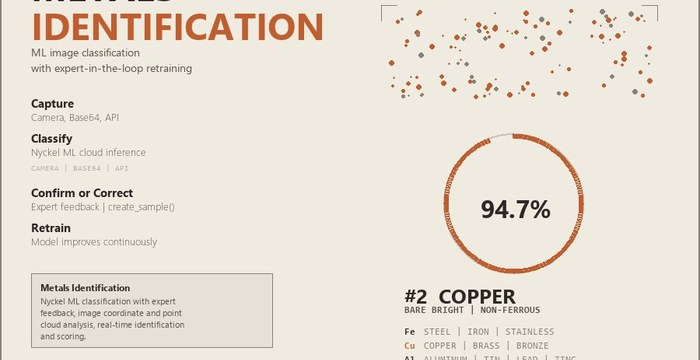
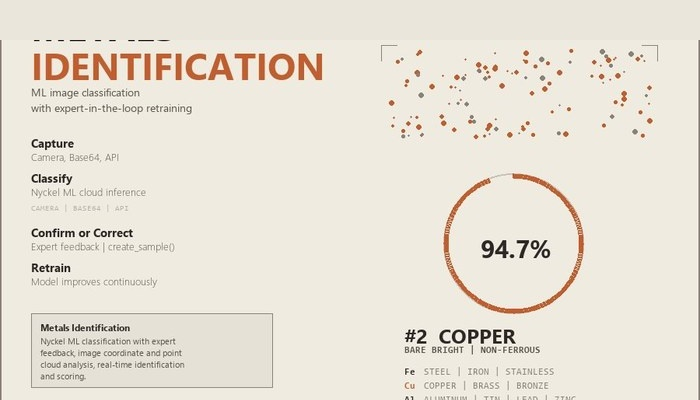
pad source images 40px top, gentle scale hover, remove lightbox, card click scrolls to project

diff --git a/index.html b/index.html
@@ -30,11 +30,9 @@
     /* Gallery section */
     .gallery-section{padding:3.5rem 0 5rem;border-top:2px solid var(--rule);overflow:visible;position:relative;z-index:1}.gallery-section .section-label{max-width:760px;margin:0 auto 1.5rem;padding:0 2.5rem}.gallery-strip-label{max-width:760px;margin:0 auto .8rem;padding:0 2.5rem;font-family:var(--mono);font-size:.65rem;font-weight:400;color:var(--fg-faint);letter-spacing:.12em;text-transform:uppercase}.gallery-strip-label:not(:first-of-type){margin-top:2.5rem}
     /* Technical gallery: card grid with captions */
-    .tech-gallery{max-width:760px;margin:0 auto;padding:0 2.5rem;display:grid;grid-template-columns:1fr 1fr;gap:1.25rem}.tech-card{background:var(--bg-warm);border:1px solid var(--rule);overflow:hidden;border-radius:0 0 6px 6px;position:relative;cursor:pointer;transition:border-color .3s ease;padding:1rem .75rem 0}.tech-card:hover{border-color:var(--accent)}.tech-card img{width:100%;height:auto;display:block;opacity:.85;transition:opacity .3s ease}.tech-card:hover img{opacity:1}.tech-card-caption{padding:.75rem 1rem;font-family:var(--mono);font-size:.68rem;color:var(--fg-light);letter-spacing:.02em;border-top:1px solid var(--rule-light)}.tech-card-caption strong{color:var(--fg-mid);font-weight:400;display:block;margin-bottom:.2rem;font-size:.72rem}
-    /* Hover overlay for gallery images */
-    .hover-overlay{display:none;position:fixed;z-index:9999;pointer-events:none;background:var(--bg-warm);border:2px solid var(--accent);border-radius:8px;box-shadow:0 20px 60px rgba(44,40,37,0.3);padding:6px;max-width:70vw;max-height:80vh}.hover-overlay img{display:block;max-width:100%;max-height:calc(80vh - 12px);border-radius:4px}
+    .tech-gallery{max-width:760px;margin:0 auto;padding:0 2.5rem;display:grid;grid-template-columns:1fr 1fr;gap:1.25rem}.tech-card{background:var(--bg-warm);border:1px solid var(--rule);overflow:hidden;border-radius:6px;position:relative;cursor:pointer;transition:border-color .3s ease,transform .35s ease,box-shadow .35s ease}.tech-card:hover{border-color:var(--accent);transform:scale(1.04);box-shadow:0 8px 24px rgba(44,40,37,0.12)}.tech-card img{width:100%;height:auto;display:block;opacity:.85;transition:opacity .3s ease}.tech-card:hover img{opacity:1}.tech-card-caption{padding:.75rem 1rem;font-family:var(--mono);font-size:.68rem;color:var(--fg-light);letter-spacing:.02em;border-top:1px solid var(--rule-light)}.tech-card-caption strong{color:var(--fg-mid);font-weight:400;display:block;margin-bottom:.2rem;font-size:.72rem}.tech-card a{display:block;color:inherit;border-bottom:none}.tech-card a:hover{border-bottom:none}
     /* Creative gallery: scrolling strip */
-    .gallery-track-wrapper{position:relative;width:100vw;left:50%;transform:translateX(-50%);overflow:hidden;mask-image:linear-gradient(to right,transparent,black 80px,black calc(100% - 80px),transparent);-webkit-mask-image:linear-gradient(to right,transparent,black 80px,black calc(100% - 80px),transparent)}.gallery-track{display:flex;gap:1.25rem;width:max-content;animation:galleryScroll 55s linear infinite}.gallery-track:hover{animation-play-state:paused}.gallery-track img{height:180px;width:auto;border:1px solid var(--rule);display:block;opacity:.85;transition:opacity .3s ease;border-radius:6px;cursor:pointer}.gallery-track img:hover{opacity:1;border-color:var(--accent)}
+    .gallery-track-wrapper{position:relative;width:100vw;left:50%;transform:translateX(-50%);overflow:hidden;mask-image:linear-gradient(to right,transparent,black 80px,black calc(100% - 80px),transparent);-webkit-mask-image:linear-gradient(to right,transparent,black 80px,black calc(100% - 80px),transparent)}.gallery-track{display:flex;gap:1.25rem;width:max-content;animation:galleryScroll 55s linear infinite}.gallery-track:hover{animation-play-state:paused}.gallery-track img{height:180px;width:auto;border:1px solid var(--rule);display:block;opacity:.85;transition:opacity .3s ease,transform .35s ease,box-shadow .35s ease;border-radius:6px;cursor:pointer}.gallery-track img:hover{opacity:1;border-color:var(--accent);transform:scale(1.08);box-shadow:0 8px 24px rgba(44,40,37,0.12)}
     @keyframes galleryScroll{0%{transform:translateX(0)}100%{transform:translateX(-50%)}}
     @keyframes fadeUp{from{opacity:0;transform:translateY(16px)}to{opacity:1;transform:translateY(0)}}
     @keyframes pulse{0%,100%{opacity:.2}50%{opacity:.6}}
@@ -101,22 +99,22 @@
       <!-- Technical: captioned card grid with real images -->
       <div class="gallery-strip-label">Technical</div>
       <div class="tech-gallery">
-        <div class="tech-card">
+        <div class="tech-card"><a href="#project-pulse">
           <img src="gallery/technical/priority-pulse.jpg" alt="Priority Pulse — local-first AI triage dashboard" />
           <div class="tech-card-caption"><strong>Priority Pulse</strong>Daily AI triage output with time allocation and pattern analysis</div>
-        </div>
-        <div class="tech-card">
+        </a></div>
+        <div class="tech-card"><a href="#project-diagnostic">
           <img src="gallery/technical/diagnostic-assistant.jpg" alt="Diagnostic Assistant — AI fault diagnosis workflow" />
           <div class="tech-card-caption"><strong>Diagnostic Assistant</strong>Multi-turn AI diagnosis with conditional branching and manufacturer docs</div>
-        </div>
-        <div class="tech-card">
+        </a></div>
+        <div class="tech-card"><a href="#project-metals">
           <img src="gallery/technical/metals-identifier.jpg" alt="Metals Identification — ML classification with expert retraining" />
           <div class="tech-card-caption"><strong>Metals Identification</strong>ML image classification with expert-in-the-loop continuous retraining</div>
-        </div>
-        <div class="tech-card">
+        </a></div>
+        <div class="tech-card"><a href="#project-lokker">
           <img src="gallery/technical/part-lokker.jpg" alt="Part Lokker — document to CMMS import pipeline" />
           <div class="tech-card-caption"><strong>Part Lokker</strong>OCR + LLM extraction pipeline from vendor docs to CMMS-ready import</div>
-        </div>
+        </a></div>
       </div>
 
       <!-- Creative: scrolling strip -->
@@ -155,25 +153,25 @@
     <section id="projects">
       <div class="section-label">Projects</div>
       <h2>Things I'm building</h2>
-      <div class="project">
+      <div class="project" id="project-pulse">
         <div class="project-status status-oss">Open Source</div>
         <h3><a href="https://github.com/lukemccarter-ux/priority-pulse">Priority Pulse</a></h3>
         <p class="project-desc">A personal AI assistant that watches how you actually spend your time and tells you what you're avoiding. Built for ADHD brains in high-interrupt jobs where the day disappears before you've touched the important stuff.</p>
         <div class="project-tech">Python &middot; Claude API (Haiku for classification, Sonnet for analysis) &middot; OAuth 2.0 multi-source ingestion (Gmail, Google Calendar/Tasks, Outlook ICS) &middot; Power Automate pipeline &middot; Obsidian vault output &middot; Local-first, no cloud, no telemetry</div>
       </div>
-      <div class="project">
+      <div class="project" id="project-lokker">
         <div class="project-status status-progress">In Progress</div>
         <h3>Part Lokker</h3>
         <p class="project-desc">Drop a photo of a quote, invoice, or packing slip and get a clean, ready-to-import file for your CMMS. No manual data entry, no reformatting spreadsheets. Handles PDFs, scanned documents, and photos from the shop floor.</p>
         <div class="project-tech">AI document extraction (OCR + LLM) &middot; .pdf, .doc, .jpeg, .png input &middot; Auto-formatted .csv to CMMS import spec &middot; Field mapping for vendor-specific formats &middot; Batch processing</div>
       </div>
-      <div class="project">
+      <div class="project" id="project-diagnostic">
         <div class="project-status status-progress">In Progress</div>
         <h3>Diagnostic Assistant</h3>
         <p class="project-desc">An AI coach that walks technicians through diagnosis and repair of niche industrial systems. Uses manufacturer documentation first, asks for specific photos or videos mid-conversation, and guides rather than guesses.</p>
         <div class="project-tech">RAG over manufacturer service manuals &middot; Multi-turn conversational UI &middot; In-context image/video analysis &middot; Guided decision trees with conditional branching &middot; Per-equipment knowledge base</div>
       </div>
-      <div class="project">
+      <div class="project" id="project-metals">
         <div class="project-status status-progress">In Progress</div>
         <h3>Scrap Metal ID</h3>
         <p class="project-desc">A mobile app that helps yard workers identify metal grades on the spot. The model improves continuously because the people using it are the ones training it. Designed to fit into existing workflows without adding steps.</p>
@@ -215,19 +213,5 @@
       <div class="footer-right">Toronto &middot; 2026</div>
     </footer>
   </div>
-  <div class="hover-overlay" id="hoverOverlay"><img id="hoverImg" /></div>
-  <script>
-  (function(){
-    var ov=document.getElementById('hoverOverlay'),oi=document.getElementById('hoverImg'),active=false;
-    function show(src,e){oi.src=src;ov.style.display='block';active=true;pos(e)}
-    function hide(){ov.style.display='none';active=false}
-    function pos(e){if(!active)return;var w=ov.offsetWidth,h=ov.offsetHeight,x=e.clientX+20,y=e.clientY-h/2;if(x+w>window.innerWidth-10)x=e.clientX-w-20;if(y<10)y=10;if(y+h>window.innerHeight-10)y=window.innerHeight-h-10;ov.style.left=x+'px';ov.style.top=y+'px'}
-    document.querySelectorAll('.tech-card img, .gallery-track img').forEach(function(img){
-      img.addEventListener('mouseenter',function(e){show(this.src,e)});
-      img.addEventListener('mousemove',function(e){pos(e)});
-      img.addEventListener('mouseleave',hide);
-    });
-  })();
-  </script>
 </body>
 </html>
